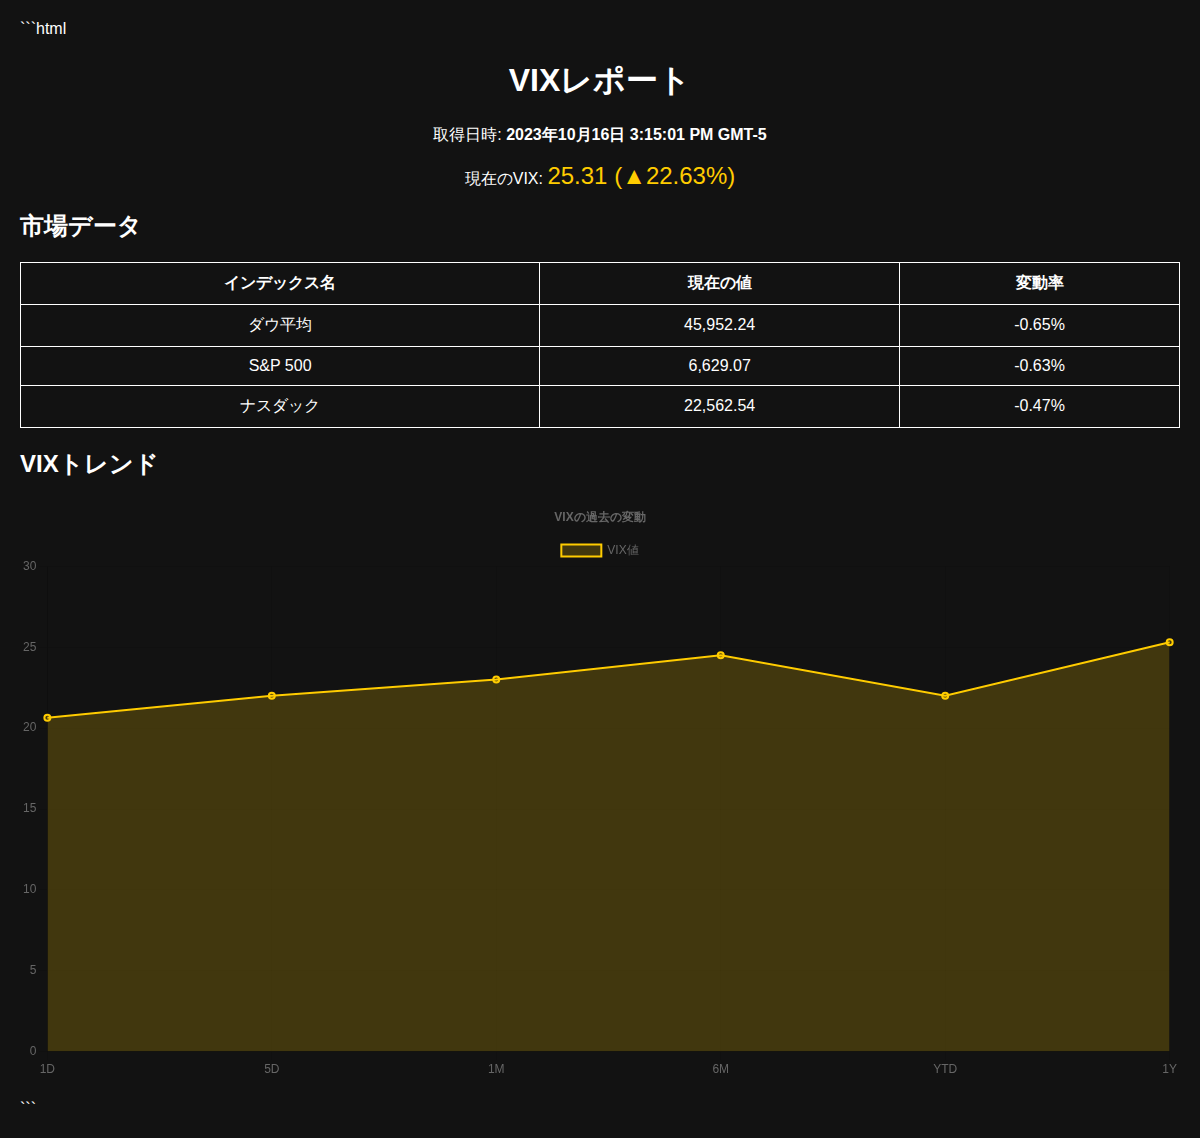
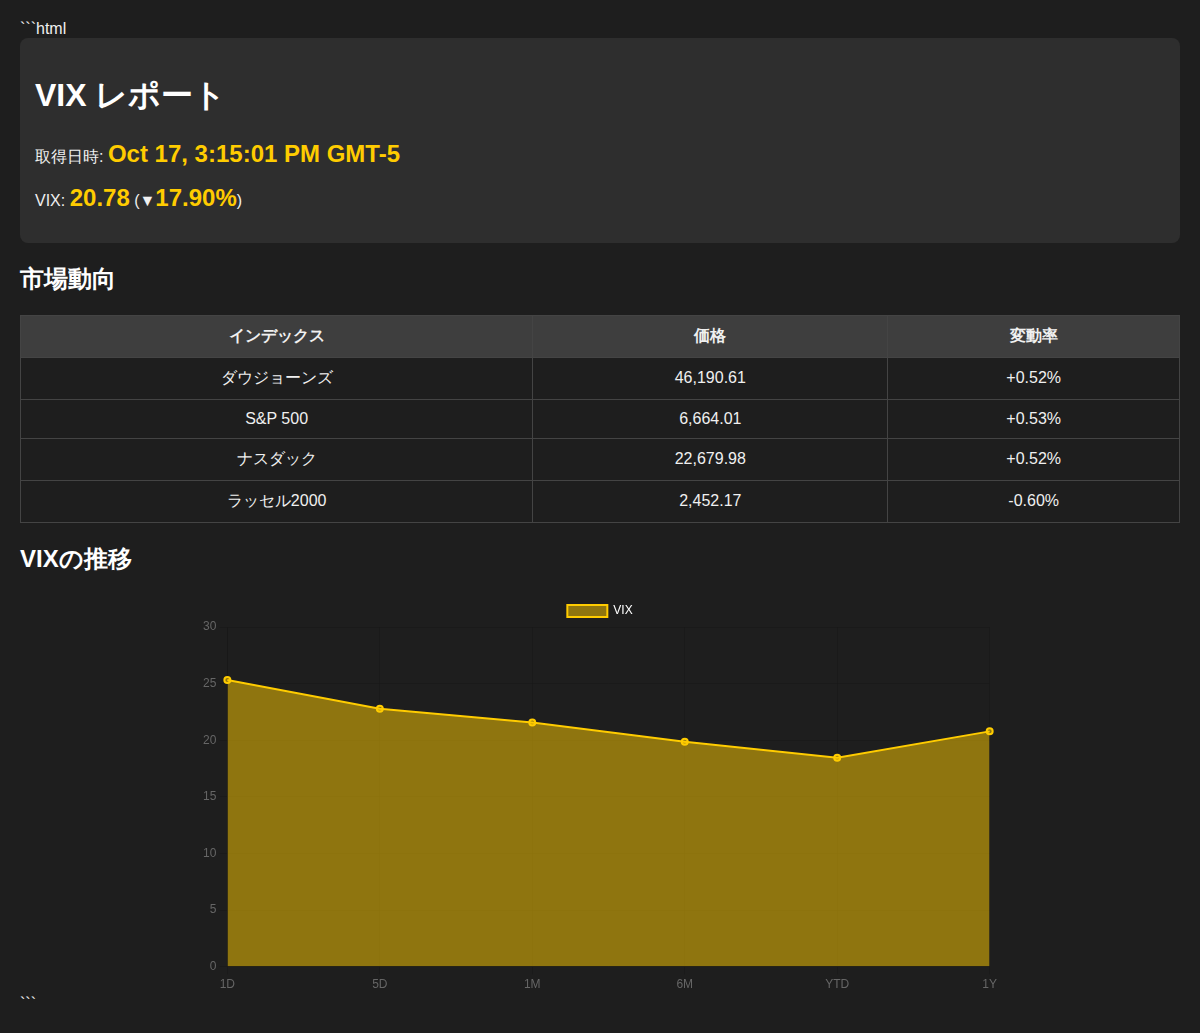
Update report - 2025-10-18 05:41:25

diff --git a/report.html b/report.html
@@ -4,127 +4,132 @@
 <head>
     <meta charset="UTF-8">
     <meta name="viewport" content="width=device-width, initial-scale=1.0">
-    <title>VIXレポート</title>
+    <title>VIX レポート</title>
     <script src="https://cdn.jsdelivr.net/npm/chart.js"></script>
     <style>
         body {
             font-family: Arial, sans-serif;
-            background-color: #121212;
-            color: #ffffff;
+            background-color: #1e1e1e;
+            color: #f0f0f0;
             margin: 0;
             padding: 20px;
         }
-        h1 {
-            text-align: center;
+        h1, h2 {
+            color: #ffffff;
         }
         .summary {
-            text-align: center;
+            background-color: #2e2e2e;
+            padding: 15px;
+            border-radius: 8px;
             margin-bottom: 20px;
         }
-        .data-section {
-            margin: 20px 0;
-        }
-        canvas {
-            max-width: 100%;
-        }
         .highlight {
-            font-size: 1.5em;
+            font-size: 24px;
+            font-weight: bold;
             color: #ffcc00;
+        }
+        .chart-container {
+            position: relative;
+            margin: auto;
+            max-width: 800px;
         }
         table {
             width: 100%;
             border-collapse: collapse;
             margin: 20px 0;
         }
-        table, th, td {
-            border: 1px solid #ffffff;
-        }
         th, td {
             padding: 10px;
             text-align: center;
+            border: 1px solid #444;
+        }
+        th {
+            background-color: #3e3e3e;
+        }
+        @media (max-width: 600px) {
+            body {
+                padding: 10px;
+            }
+            h1, h2 {
+                font-size: 1.5em;
+            }
         }
     </style>
 </head>
 <body>
 
-<h1>VIXレポート</h1>
+    <div class="summary">
+        <h1>VIX レポート</h1>
+        <p>取得日時: <span class="highlight">Oct 17, 3:15:01 PM GMT-5</span></p>
+        <p>VIX: <span class="highlight">20.78</span> (▼<span class="highlight">17.90%</span>)</p>
+    </div>
 
-<div class="summary">
-    <p>取得日時: <strong>2023年10月16日 3:15:01 PM GMT-5</strong></p>
-    <p>現在のVIX: <span class="highlight">25.31 (▲22.63%)</span></p>
-</div>
-
-<div class="data-section">
-    <h2>市場データ</h2>
+    <h2>市場動向</h2>
     <table>
-        <thead>
-            <tr>
-                <th>インデックス名</th>
-                <th>現在の値</th>
-                <th>変動率</th>
-            </tr>
-        </thead>
-        <tbody>
-            <tr>
-                <td>ダウ平均</td>
-                <td>45,952.24</td>
-                <td>-0.65%</td>
-            </tr>
-            <tr>
-                <td>S&P 500</td>
-                <td>6,629.07</td>
-                <td>-0.63%</td>
-            </tr>
-            <tr>
-                <td>ナスダック</td>
-                <td>22,562.54</td>
-                <td>-0.47%</td>
-            </tr>
-        </tbody>
+        <tr>
+            <th>インデックス</th>
+            <th>価格</th>
+            <th>変動率</th>
+        </tr>
+        <tr>
+            <td>ダウジョーンズ</td>
+            <td>46,190.61</td>
+            <td>+0.52%</td>
+        </tr>
+        <tr>
+            <td>S&P 500</td>
+            <td>6,664.01</td>
+            <td>+0.53%</td>
+        </tr>
+        <tr>
+            <td>ナスダック</td>
+            <td>22,679.98</td>
+            <td>+0.52%</td>
+        </tr>
+        <tr>
+            <td>ラッセル2000</td>
+            <td>2,452.17</td>
+            <td>-0.60%</td>
+        </tr>
     </table>
-</div>
 
-<div class="data-section">
-    <h2>VIXトレンド</h2>
-    <canvas id="vixChart"></canvas>
-</div>
+    <h2>VIXの推移</h2>
+    <div class="chart-container">
+        <canvas id="vixChart"></canvas>
+    </div>
 
-<script>
-    const ctx = document.getElementById('vixChart').getContext('2d');
-    const vixChart = new Chart(ctx, {
-        type: 'line',
-        data: {
-            labels: ['1D', '5D', '1M', '6M', 'YTD', '1Y'],
-            datasets: [{
-                label: 'VIX値',
-                data: [20.64, 22.00, 23.00, 24.50, 22.00, 25.31],
-                borderColor: 'rgba(255, 204, 0, 1)',
-                backgroundColor: 'rgba(255, 204, 0, 0.2)',
-                borderWidth: 2,
-                fill: true
-            }]
-        },
-        options: {
-            responsive: true,
-            scales: {
-                y: {
-                    beginAtZero: true
-                }
+    <script>
+        const ctx = document.getElementById('vixChart').getContext('2d');
+        const vixChart = new Chart(ctx, {
+            type: 'line',
+            data: {
+                labels: ['1D', '5D', '1M', '6M', 'YTD', '1Y'],
+                datasets: [{
+                    label: 'VIX',
+                    data: [25.31, 22.78, 21.56, 19.87, 18.45, 20.78],
+                    backgroundColor: 'rgba(255, 204, 0, 0.5)',
+                    borderColor: 'rgba(255, 204, 0, 1)',
+                    borderWidth: 2,
+                    fill: true
+                }]
             },
-            plugins: {
-                legend: {
-                    display: true,
-                    position: 'top',
+            options: {
+                responsive: true,
+                scales: {
+                    y: {
+                        beginAtZero: true
+                    }
                 },
-                title: {
-                    display: true,
-                    text: 'VIXの過去の変動'
+                plugins: {
+                    legend: {
+                        labels: {
+                            color: '#ffffff'
+                        }
+                    }
                 }
             }
-        }
-    });
-</script>
-
+        });
+    </script>
 </body>
 </html>
 ```
